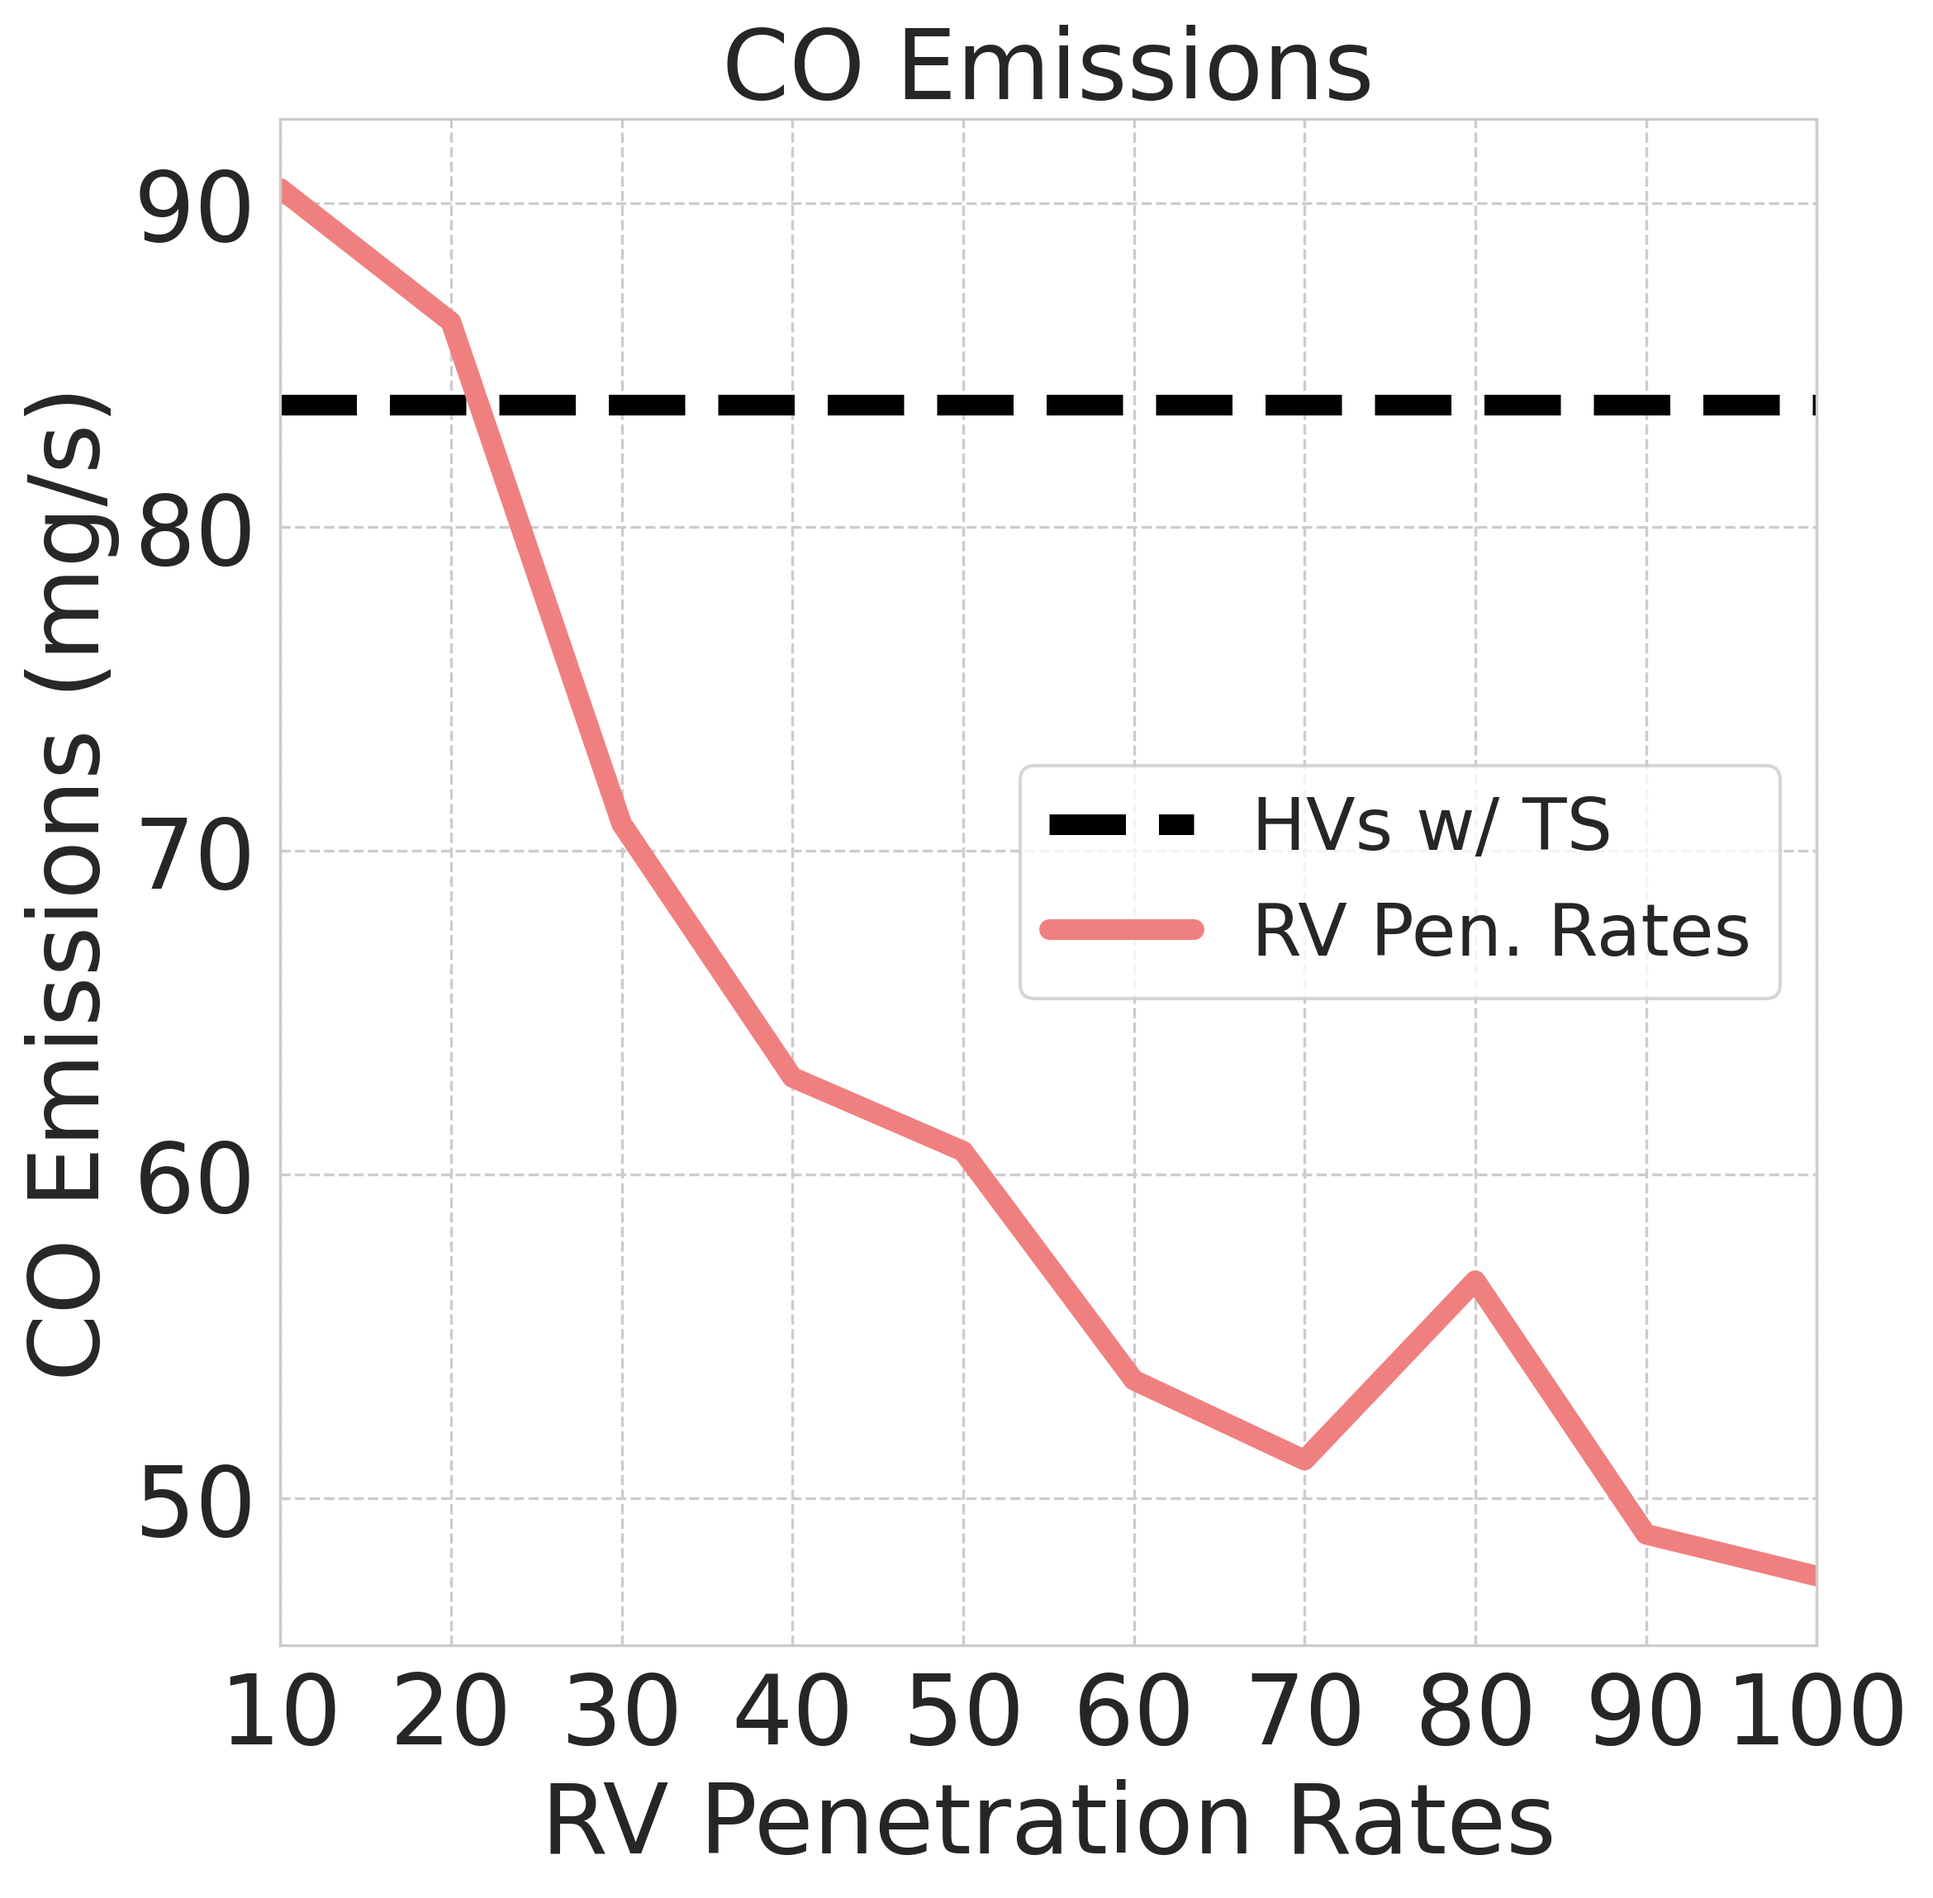
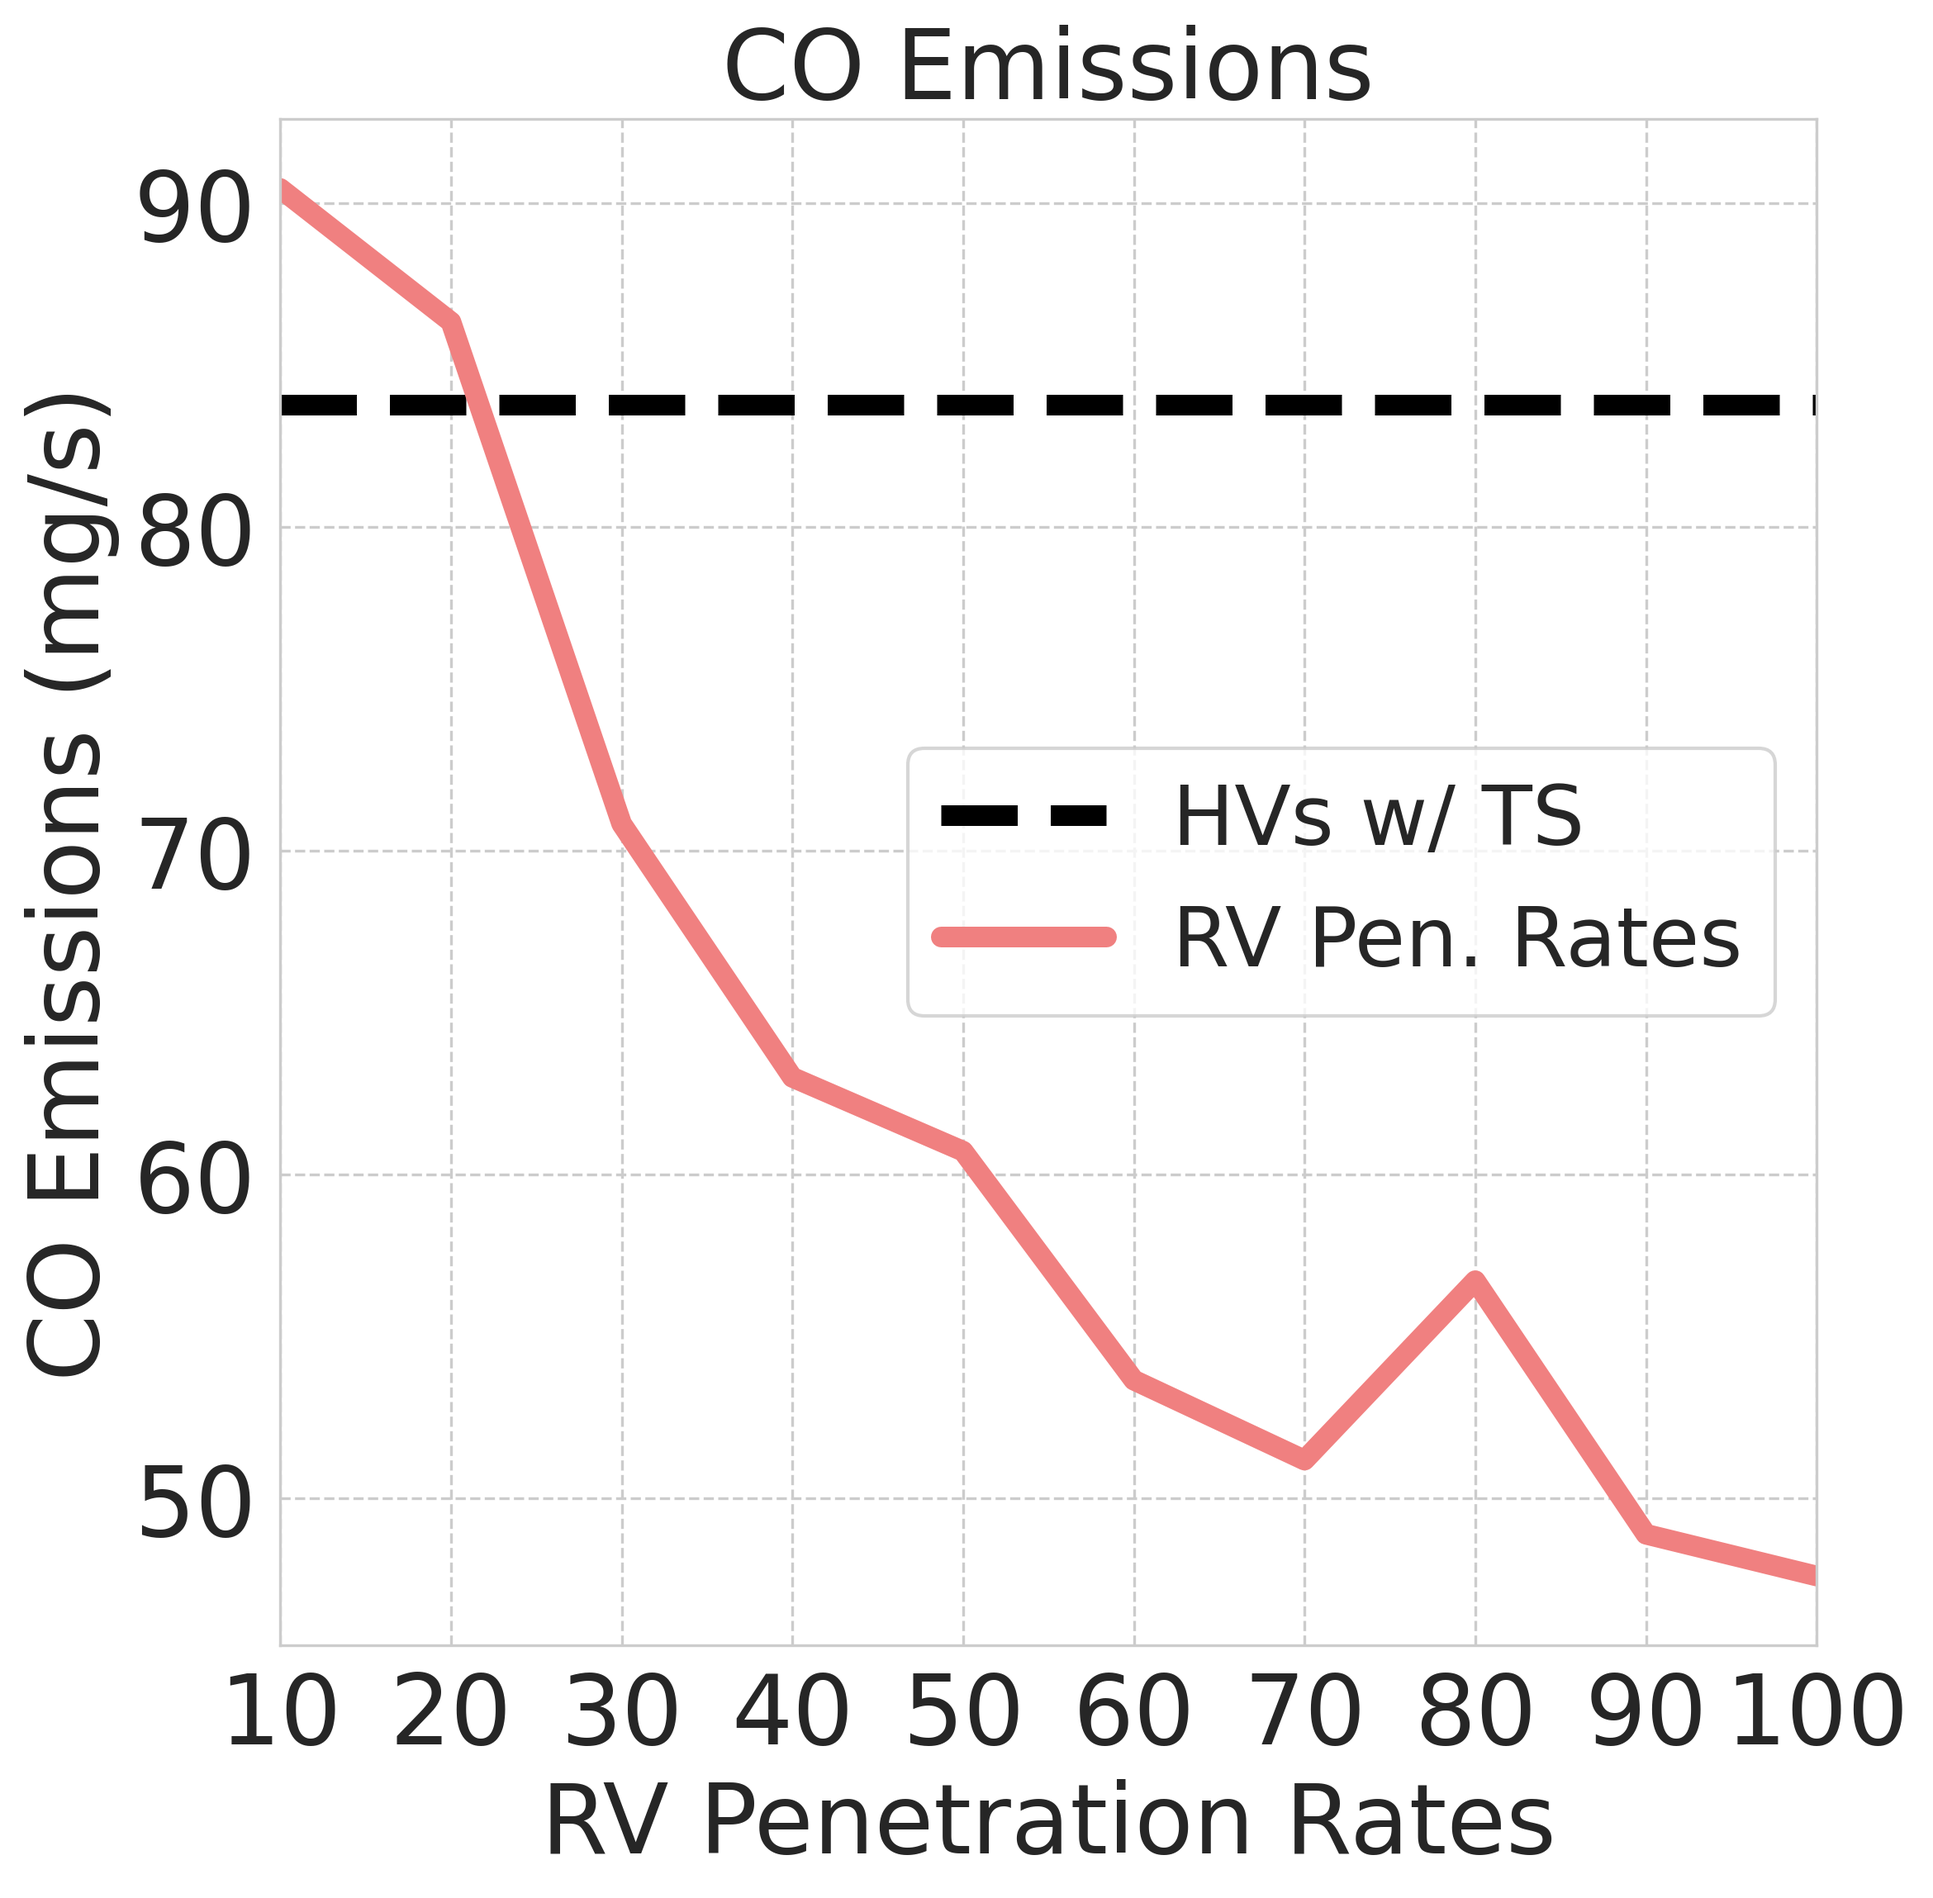
Updated emissions figs

Changed region(s): [[0.4679, 0.4017, 0.9359, 0.5561]]

diff --git a/post_process/junc_results_plots.py b/post_process/junc_results_plots.py
@@ -30,12 +30,12 @@ fs = 28
 # ax.set_title("Wait Time Across Intersections", fontsize=fs)
 # ax.set_ylabel("Wait Time (s)", fontsize=fs)
 
-# y = [0.7138, 0.7022, 0.6162, 0.5821, 0.5796, 0.5451, 0.5321, 0.5686, 0.5468, 0.5427]
-# ax.hlines(0.7332, 10, 100, color="black", label="HVs w/ TS", linestyles="--", linewidth=6)
-# ax.plot(x, y, color="slateblue", label="RV Pen. Rates", linewidth=6)
-# ax.set_title("Fuel Consumption", fontsize=fs)
-# ax.set_ylabel("Fuel Consumption (ml/s)", fontsize=fs)
-# ax.yaxis.set_major_formatter('{x:.2f}')
+y = [0.7138, 0.7022, 0.6162, 0.5821, 0.5796, 0.5451, 0.5321, 0.5686, 0.5468, 0.5427]
+ax.hlines(0.7332, 10, 100, color="black", label="HVs w/ TS", linestyles="--", linewidth=6)
+ax.plot(x, y, color="slateblue", label="RV Pen. Rates", linewidth=6)
+ax.set_title("Fuel Consumption", fontsize=fs)
+ax.set_ylabel("Fuel Consumption (ml/s)", fontsize=fs)
+ax.yaxis.set_major_formatter('{x:.2f}')
 
 # y = [1660.53, 1633.54, 1433.41, 1354.196, 1348.32, 1268.10, 1237.83, 1322.75, 1272.009, 1262.508]
 # ax.hlines(1705.53, 10, 100, color="black", label="HVs w/ TS", linestyles="--", linewidth=6)
@@ -56,11 +56,11 @@ fs = 28
 # ax.set_ylabel("HC Emissions (mg/s)", fontsize=fs)
 # ax.yaxis.set_major_formatter('{x:.2f}')
 
-y = [0.7464, 0.7313, 0.6364, 0.5970, 0.5919, 0.5534, 0.5391, 0.5779, 0.5494, 0.5442]
-ax.hlines(0.7535, 10, 100, color="black", label="HVs w/ TS", linestyles="--", linewidth=6)
-ax.plot(x, y, color="darkorange", label="RV Pen. Rates", linewidth=6)
-ax.set_title("NOx Emissions", fontsize=fs)
-ax.set_ylabel("NOx Emissions (mg/s)", fontsize=fs)
+# y = [0.7464, 0.7313, 0.6364, 0.5970, 0.5919, 0.5534, 0.5391, 0.5779, 0.5494, 0.5442]
+# ax.hlines(0.7535, 10, 100, color="black", label="HVs w/ TS", linestyles="--", linewidth=6)
+# ax.plot(x, y, color="darkorange", label="RV Pen. Rates", linewidth=6)
+# ax.set_title("NOx Emissions", fontsize=fs)
+# ax.set_ylabel("NOx Emissions (mg/s)", fontsize=fs)
 
 # y_fuel = [0.7138, 0.7022, 0.6162, 0.5821, 0.5796, 0.5451, 0.5321, 0.5686, 0.5468, 0.5427]
 # y_co = [90.45, 86.33, 70.83, 63.00, 60.72, 53.65, 51.18, 56.72, 48.89, 47.60, 83.76]
@@ -83,5 +83,5 @@ ax.set_xlim(10, 100)
 plt.xticks(fontsize=fs)
 plt.yticks(fontsize=fs)
 
-ax.legend(fontsize=fs-7, loc="center right")
-plt.savefig('../img/nox_emissions.png', bbox_inches="tight")
+ax.legend(fontsize=fs-4, loc="center right")
+plt.savefig('../img/fuel_emissions.png', bbox_inches="tight")
